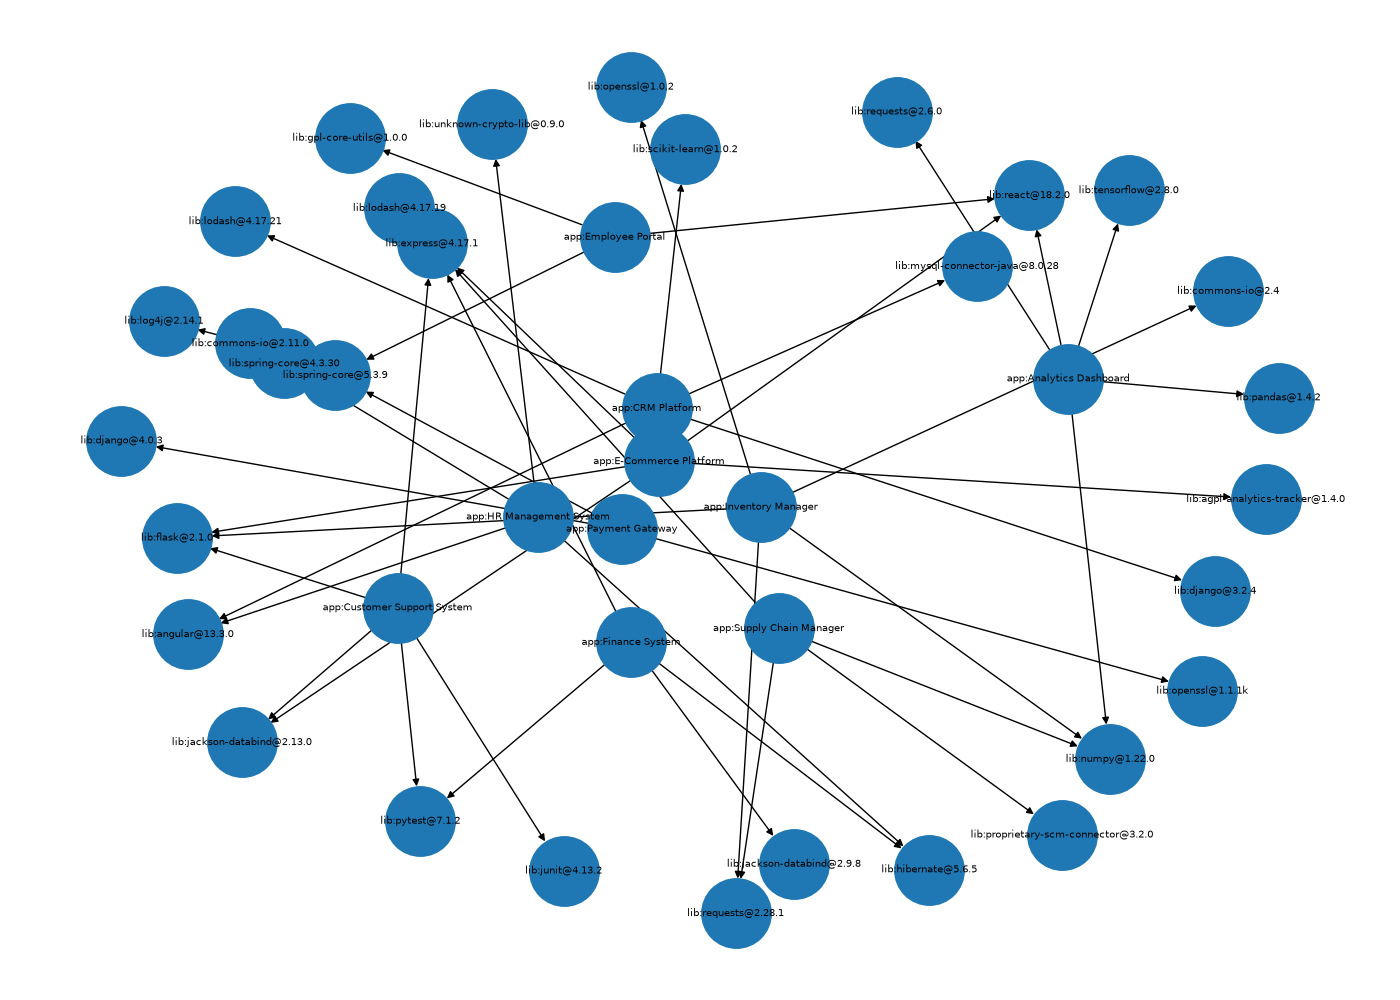
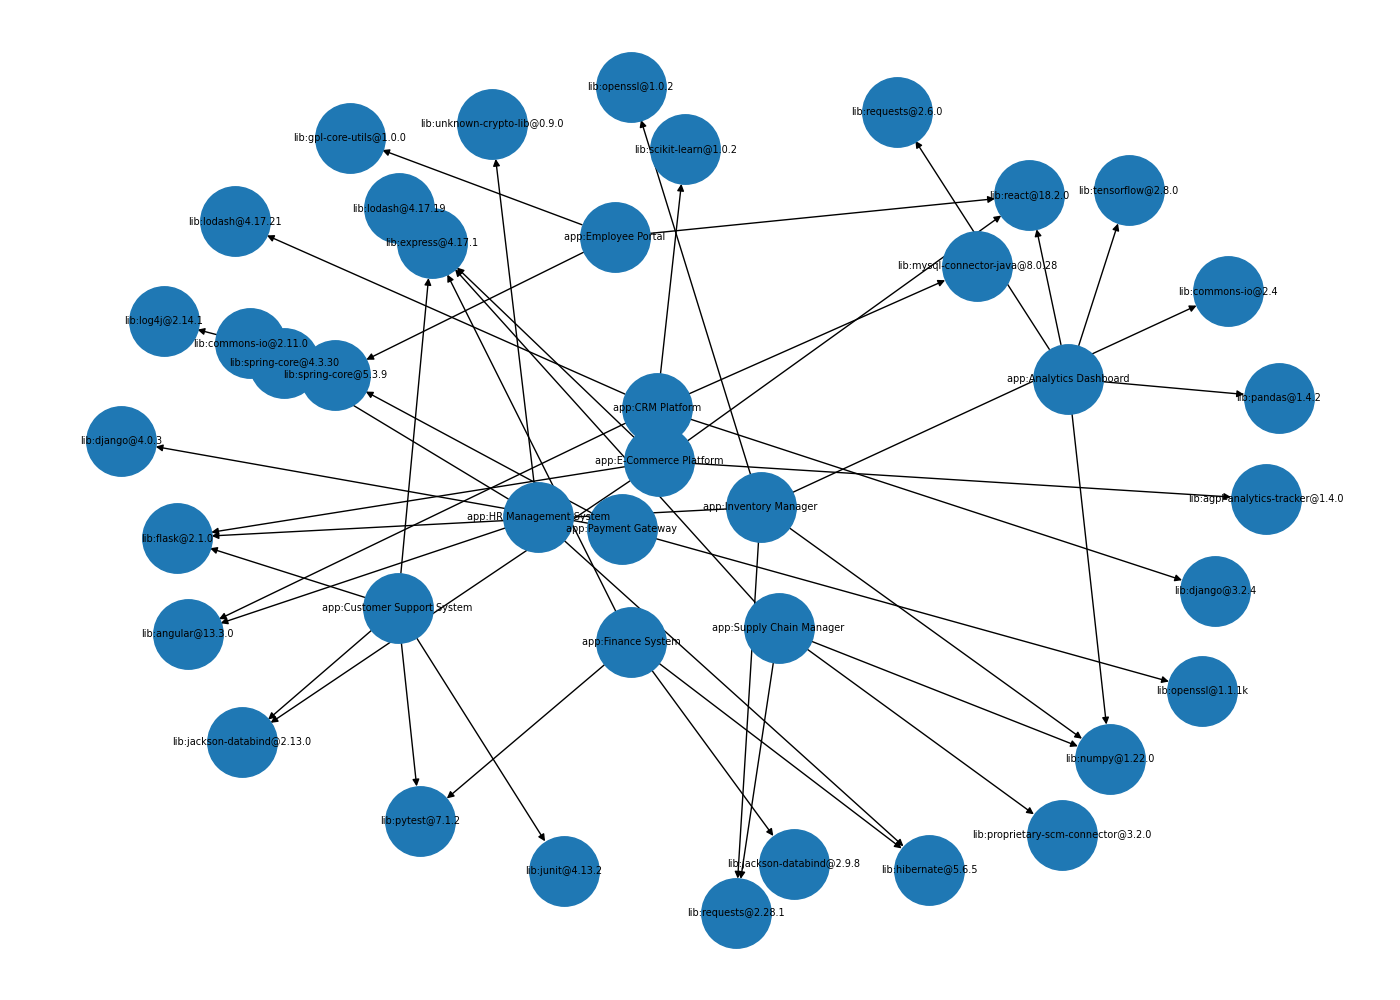
Configure project for cloud deployment (Docker, requirements.txt, app.py fixes)

diff --git a/src/app.py b/src/app.py
@@ -135,4 +135,5 @@ def analyze():
 
 
 if __name__ == "__main__":
-    app.run(debug=True)
+    port = int(os.environ.get("PORT", 5000))
+    app.run(host="0.0.0.0", port=port, debug=True)

diff --git a/src/graph_builder.py b/src/graph_builder.py
@@ -20,6 +20,8 @@ accurate.
 """
 
 import networkx as nx
+import matplotlib
+matplotlib.use('Agg')
 import matplotlib.pyplot as plt
 import os
 